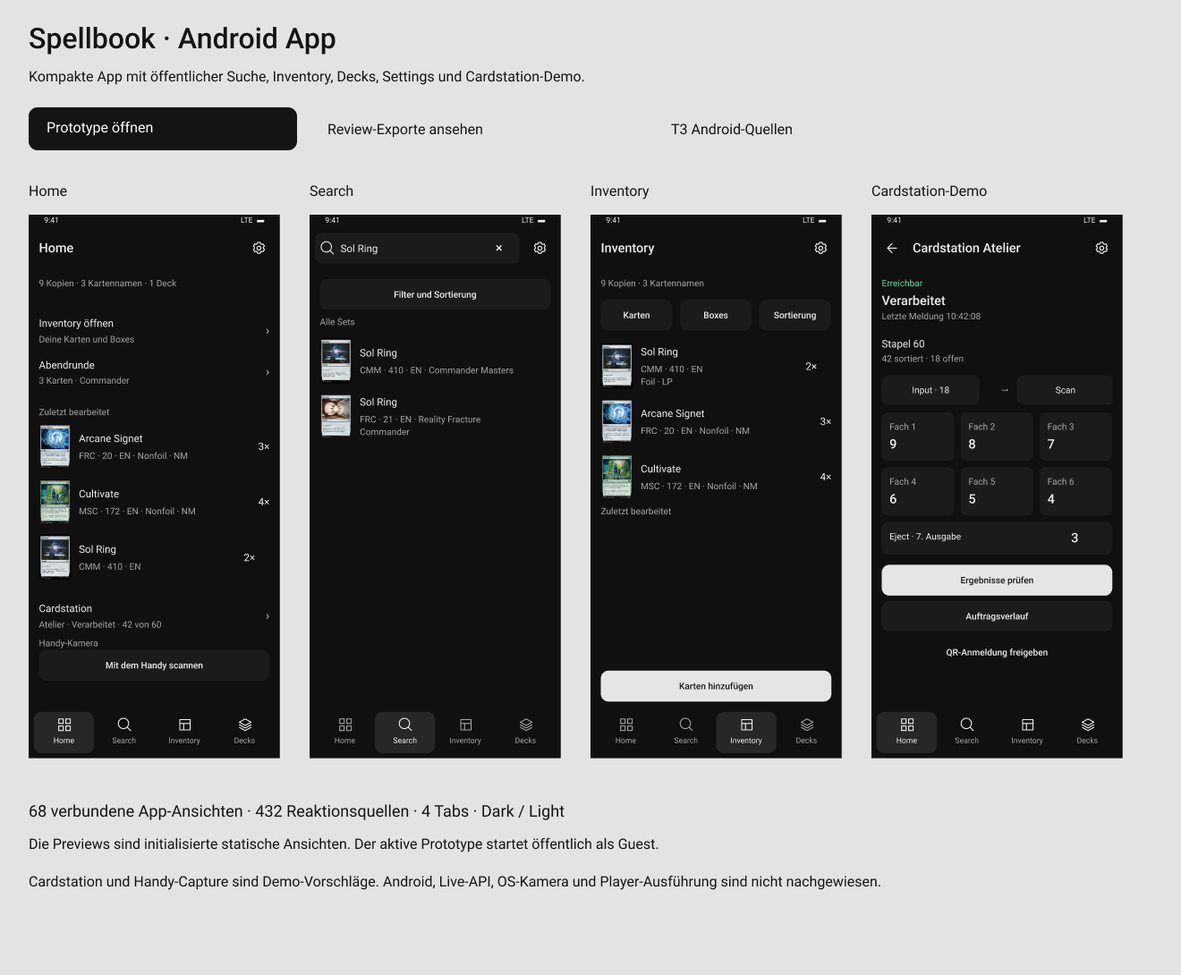
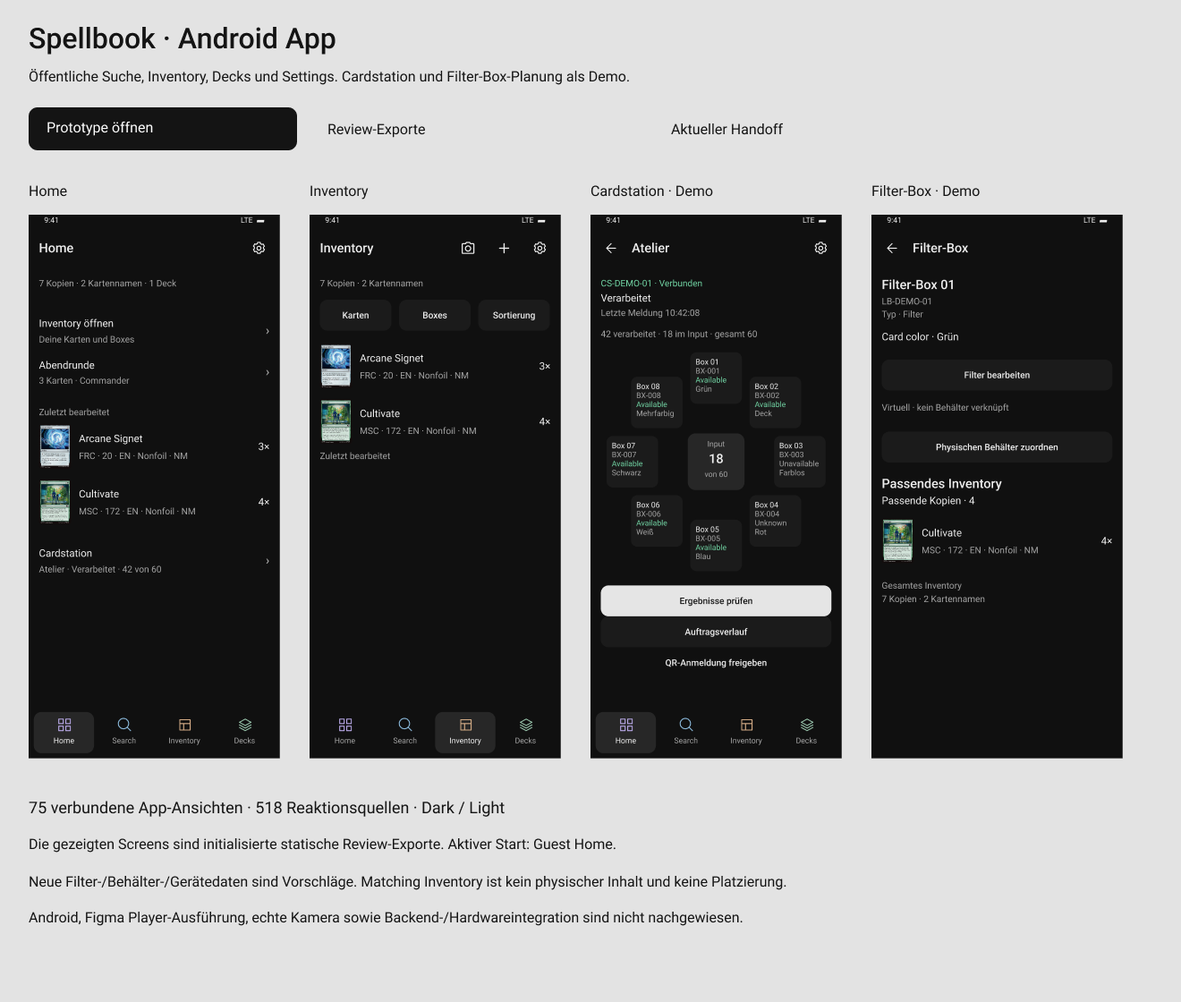
docs: refine Android inventory and circular Cardstation prototype

diff --git a/docs/integrations/card-robot.md b/docs/integrations/card-robot.md
@@ -1,10 +1,10 @@
 # Card scanner and sorter
 
 - Status: Proposed integration
-- Last Reviewed: 2026-10-17
+- Last Reviewed: 2026-10-19
 - Source of Truth: product requirements, scan API code, maintainer scope brief and supplied hardware concept
-- Update Triggers: implemented QR API versus unimplemented machine integration, project responsibilities, integration planning, capture and recognition APIs, physical inventory schema, device protocol, construction choices, prototype results, local scanner recognition and device-login direction, client feature parity, browser scanning and phone computation-core variants
-- Related Docs: [Product specification](../product/specification.md), [Domain model](../../GLOSSARY.md), [Mobile and scan](../architecture/mobile-and-scan.md), [API routes](../product/routing-and-games.md), [Local authentication](../operations/local-auth.md), [Sorter integration Wayfinder map](https://github.com/KyleDerZweite/spellbook/issues/194), [ADR-0023](../decisions/0023-local-recognition-in-scanner-clients.md)
+- Update Triggers: circular eight-box app prototype, proposed Inventory filters and physical-box links, implemented QR API versus unimplemented machine integration, project responsibilities, integration planning, capture and recognition APIs, physical inventory schema, device protocol, construction choices, prototype results, local scanner recognition and device-login direction, client feature parity, browser scanning and phone computation-core variants
+- Related Docs: [Product specification](../product/specification.md), [Domain model](../../GLOSSARY.md), [Android design handoff](../product/mobile-app-exploration.md), [Mobile and scan](../architecture/mobile-and-scan.md), [API routes](../product/routing-and-games.md), [Local authentication](../operations/local-auth.md), [Sorter integration Wayfinder map](https://github.com/KyleDerZweite/spellbook/issues/194), [ADR-0023](../decisions/0023-local-recognition-in-scanner-clients.md)
 
 The proposed device accepts a stack of MTG cards, separates one card at a time, captures an image, and sorts cards into output trays. Spellbook supplies the review interface, inventory, decklist, and selected sorting rule. A Jetson may run capture and recognition; a microcontroller may operate motors and read position sensors. Construction and board selection remain undecided.
 
@@ -16,31 +16,43 @@ The maintainer's 2026-10-07 concept extends the existing website, Dashboard, Inv
 
 This effort prepares backend and client contracts, records the concept and plans an exploratory simulator. Hardware construction, machine control, CAD and optimization belong to a separate project, with eventual integration into this service. The maintainer has started local testing and 3D prototyping separately. No measurements or design revisions from that work have been incorporated into this software contract. [ADR-0023](../decisions/0023-local-recognition-in-scanner-clients.md) records local recognition as the direction; exact client responsibilities need another review. The backend manages authorized account data and can prepare public references; it does not infer a presented user's card from its images.
 
-The eventual destination remains a buildable Spec with a simulator-based integration plan. Immediate work is documentation and experiments that show Input, Scan, transport, six boxes and Eject alongside a rough component list. The [Sorter integration Wayfinder map](https://github.com/KyleDerZweite/spellbook/issues/194) indexes the decisions. A completed Spec, implemented simulator and real hardware evidence do not yet exist.
+The eventual destination remains a buildable Spec with a simulator-based integration plan. Current app design work shows eight boxes around a central input stack. The earlier straight-path concept below remains background for the hardware investigation. The [Sorter integration Wayfinder map](https://github.com/KyleDerZweite/spellbook/issues/194) indexes the decisions. A completed Spec, implemented simulator and real hardware evidence do not yet exist.
 
 The [scanner platform evaluation](./scanner-platform-evaluation.md) researches client/runtime and host/controller alternatives, including OSS maintenance, self-hosting and reproduction. It proposes experiments without selecting construction or implementation contracts.
 
 The maintainer proposed new-intake, re-sorting and possibly physical deck-assembly modes but kept their semantics and the duplicate-counting strategy open. Arbitrary input stacks without known source boxes must be supported. A known source box can help a workflow; it is not a prerequisite. A capture identifier correlates a presentation and its processing, not a permanent physical-copy identity or proof that the card is newly owned.
 
-## Physical concept
+## Current app geometry and Box proposal
+
+On 2026-10-19, the maintainer specified a circular Cardstation view with eight box positions around the central input stack. This replaces the six-box-plus-Eject diagram in the Android prototype. It does not establish a revised mechanical design. Eject's location and routing role in this geometry remain open; no ninth output or reserved eighth position is selected.
+
+The app shows a device name, stable device ID, connection/activity state and observation time. Each recognized box shows its identity and a coarse Filter. Last reported device configuration stays distinguishable from an edited draft. An unavailable or stale observation does not independently prove absence or capacity.
+
+Existing Inventory Boxes are manual, overlapping groups of whole Inventory entries. A proposed Filter-Box would derive a matching Inventory view from a fixed criterion, initially card colour or a selected Deck. Card colour is distinct from Commander colour identity. A Deck match does not reserve copies or assemble that Deck. The current Inventory query has neither colour nor Deck predicates; this is a prototype proposal, not an implemented filtering service.
+
+Keep three identities separate: the logical Inventory Box, an optional stable reference to a removable physical box, and the current device position. A logical Box without a physical link is virtual. Matching Inventory is not observed physical content. Previewing a rule or linking a container does not change owned quantities, establish placement or activate a device rule. Overlapping views must not inflate Inventory totals.
+
+The prototype explores filter preview/confirmation/cancellation and physical link/unlink. Automatic membership, overlap priority, rule activation/versioning, exact versus alternate Deck matching, physical quantity allocation and intake duplicate handling still need reviewed contracts. [The Android handoff](../product/mobile-app-exploration.md) owns the screens and simulated flows.
+
+## Earlier straight-path physical concept
 
 Version 0 presents one card at a time. A weight presses the input stack downward and a motorized roller extracts its bottom card through a narrow opening. Separation reliability and any additional separator remain engineering questions. The card slides down a scanning ramp before an upper conveyor grips it. The conveyor is intended to run continuously; pressure, guidance, timing and arrival detection remain unproven construction choices.
 
 Three positions along the straight path each contain a flap and a left/right rocker. An opened flap releases the card downward to its rocker, producing six removable box destinations. With all flaps closed, the card continues to a fixed end-of-line Eject. Exact geometry and actuation are undecided. The available Jetson Orin Nano Super development kit and HD Logitech USB camera are test equipment, not proof that a chosen control or recognition pipeline meets the movement deadline. Direct Jetson actuation versus a separate microcontroller remains open.
 
-Eject is a regular seventh output. It handles unmatched or uncertain cards, absent/unavailable destinations, intentional output and proposed deck assembly. Logical uncertainty should route a card there rather than stop the whole run, provided its physical position is known and the machine can perform that routing. Jams, double feeds and unknown position still require safe device handling; a straight path alone does not prove a safe outcome in those cases.
+In that earlier concept, Eject is a regular seventh output. It handles unmatched or uncertain cards, absent/unavailable destinations, intentional output and proposed deck assembly. Logical uncertainty should route a card there rather than stop the whole run, provided its physical position is known and the machine can perform that routing. Jams, double feeds and unknown position still require safe device handling; a straight path alone does not prove a safe outcome in those cases.
 
 ## Box identity and availability
 
-Each removable box has a durable identity independent of its current left/right row position and a configurable rule. Candidate filters include colour, colour identity, set, rarity, card type and membership in a selected decklist. Overlapping filters, priority, unknown attributes and rule changes during a run require explicit semantics.
+Each removable box has a durable identity independent of its current device position and a configurable rule. Candidate filters include colour, colour identity, set, rarity, card type and membership in a selected decklist. Overlapping filters, priority, unknown attributes and rule changes during a run require explicit semantics.
 
 The concept puts a QR marker on the rear inner wall, viewed at an angle. One camera or reader per position is an idea, not a selected part. QR may carry a filter or reference a versioned configuration. An ID/config-reference design permits a stored rule to change without reprinting the marker, but offline evaluation requires that configuration on the device. QR payload, optional signatures and configuration activation remain open.
 
-The intended availability rule is deliberate: a visible, recognized QR makes the box available; when cards hide it, further matching cards go to Eject. The signal establishes unavailability, not its cause. Occlusion due to capacity, a missing box and a failed read must not be presented as independently verified observations. Whether additional presence/capacity sensing is necessary remains a hardware decision. A box change before a queued card arrives requires correlation with the observed outcome.
+The proposed availability rule uses a visible, recognized QR as evidence that the box is available. In the earlier straight-path concept, cards hiding the QR cause further matching cards to go to Eject; fallback routing for the circular geometry remains open. An unavailable QR does not establish its cause. Occlusion due to capacity, a missing box and a failed read must not be presented as independently verified observations. Whether additional presence/capacity sensing is necessary remains a hardware decision. A box change before a queued card arrives requires correlation with the observed outcome.
 
 ## Local fast and slow recognition
 
-Installed box rules determine the attributes needed for a local fast decision. When those attributes are reliably available, the device chooses a box or Eject before the routing deadline. Five monocolour destinations plus colourless make six boxes; this does not settle whether their rules use card colour or Commander colour identity. [Magic rules 105 and 903.4](https://media.wizards.com/2026/downloads/MagicCompRules%2020260925.txt) distinguish both from frame colour and include rules-text and back-face contributions to colour identity. Set or deck-membership rules may require stronger identification. No confidence thresholds or measured classifier latency are selected.
+Installed box rules determine the attributes needed for a local fast decision before the routing deadline. The earlier straight-path concept chose a box or Eject and used five monocolour destinations plus colourless as a six-box example. This does not select the new eight-box mapping or settle whether rules use card colour or Commander colour identity. [Magic rules 105 and 903.4](https://media.wizards.com/2026/downloads/MagicCompRules%2020260925.txt) distinguish both from frame colour and include rules-text and back-face contributions to colour identity. Set or deck-membership rules may require stronger identification. No confidence thresholds or measured classifier latency are selected.
 
 Captured frames also feed a slower local queue for exact printing, language, finish evidence and optional Condition estimation. Recognition candidates and estimates remain distinguishable from confirmed data. The [scan architecture](../architecture/mobile-and-scan.md#proposed-recognition-pipeline) owns candidate methods and evaluation. No model, OCR package, local index or cross-platform runtime is selected. Multiple frames and specialized crops are evaluation ideas, not proven improvements.
 
@@ -60,15 +72,15 @@ The current research direction gives the Jetson Orin Nano Super responsibility f
 
 The proposed meaning of a "stateless" backend is that a service process does not own motor timing or depend on its memory to resume machine work. Account Inventory, accepted-event evidence and review state still require durable storage. Machine-process state and durable account state must have separate owners in the integration contract.
 
-For proposed deck assembly, the user chooses a Deck and may empty relevant boxes into the input. Matching required cards go to Eject as the assembly output; remaining cards follow available sorting rules. The machine cannot retrieve from arbitrary storage. A new pass must not add already owned cards again, and actual allocations still depend on the unresolved physical-location model and confirmed outcomes.
+For proposed deck assembly, the user chooses a Deck and may empty relevant boxes into the input. The earlier straight-path concept sent matching required cards to Eject as the assembly output, with remaining cards following available sorting rules. The new geometry's assembly output remains open. The machine cannot retrieve from arbitrary storage. A new pass must not add already owned cards again, and actual allocations still depend on the unresolved physical-location model and confirmed outcomes.
 
 ## Exploratory simulator
 
-The desired concept surface shows Input, Scan, transport, six removable boxes and Eject. It can expose active rules, QR availability, local fast/slow results, retained captures, queue depth and backend sync. Vary local recognition delay, uncertainty, a later contradictory result and a network interruption without turning an open physical-identity rule into an assumed Inventory effect. Compare Jetson-hosted processing with a phone computation-core variant, including loss of the phone connection separately from backend interruption.
+The desired concept surface follows the current eight-box app geometry and can expose active rules, QR availability, local fast/slow results, retained captures, queue depth and backend sync. Vary local recognition delay, uncertainty, a later contradictory result and a network interruption without turning an open physical-identity rule into an assumed Inventory effect. Earlier phone computation-core comparisons remain background research; the current direction gives the Jetson local processing responsibility.
 
 The former server-inference and waiting-for-server variants are withdrawn after the maintainer's correction. Simulate local scheduling and deferred synchronization instead. This surface is an exploratory model before CAD and hardware, not a measured motion model or a completed integration acceptance suite. The rough component inventory below distinguishes known equipment from conceptual requirements.
 
-### Rough component inventory
+### Earlier straight-path component inventory
 
 This is a concept checklist, not a selected bill of materials. Counts describe the supplied mechanism; they do not select parts or prove a workable design.
 
@@ -129,7 +141,7 @@ The device-to-microcontroller transport is undecided. Whichever transport is cho
 
 ## State, inventory, and recovery
 
-Physical routing and digital interpretation progress separately. A presented card can be captured, receive a fast target, move and arrive while exact recognition, review or synchronization remains pending. Logical uncertainty uses regular Eject when physical routing remains possible. A jam, double feed, lost position or uncertain placement requires device handling and reconciliation. These are conceptual lifecycles, not selected protocol enums or new values for the current Scan-session status column.
+Physical routing and digital interpretation progress separately. A presented card can be captured, receive a fast target, move and arrive while exact recognition, review or synchronization remains pending. The earlier straight-path concept sent logical uncertainty to regular Eject when physical routing remained possible; the circular geometry needs its own fallback decision. A jam, double feed, lost position or uncertain placement requires device handling and reconciliation. These are conceptual lifecycles, not selected protocol enums or new values for the current Scan-session status column.
 
 The digital lifecycle retains local captures and recognition evidence, then applies the review and authorized Inventory effect selected for that handling intent. Physical arrival does not authorize a new owned quantity, and a recognition result does not establish arrival. The duplicate-intake strategy and final mode semantics remain open for simulator and hardware experiments.
 

diff --git a/docs/product/mobile-app-exploration.md b/docs/product/mobile-app-exploration.md
@@ -3,8 +3,8 @@
 - Status: Connected Android prototype prepared; maintainer visual acceptance and native implementation pending
 - Last Reviewed: 2026-10-19
 - Source of Truth: maintainer's selected Android structure and Figma-first sequence, inspected first-party app images and versioned mobile source, linked Figma files and shared API contracts
-- Update Triggers: prototype journey review, app navigation or typography, Cardstation/capture contracts, framework selection, API parity, native session lifecycle and cache policy
-- Related Docs: [UI direction](./ui-design-direction.md), [Routes](./routing-and-games.md), [Mobile and Scan](../architecture/mobile-and-scan.md), [Auth](../architecture/auth.md), [Client evaluation](../integrations/scanner-platform-evaluation.md), [ADR-0023](../decisions/0023-local-recognition-in-scanner-clients.md), [Product index](./README.md)
+- Update Triggers: prototype journey review, colored app navigation and compact Inventory actions, eight-box Cardstation and proposed Filter-Box/physical links, Cardstation/capture contracts, framework selection, API parity, native session lifecycle and cache policy
+- Related Docs: [UI direction](./ui-design-direction.md), [Routes](./routing-and-games.md), [Mobile and Scan](../architecture/mobile-and-scan.md), [Auth](../architecture/auth.md), [Cardstation proposal](../integrations/card-robot.md), [Client evaluation](../integrations/scanner-platform-evaluation.md), [ADR-0023](../decisions/0023-local-recognition-in-scanner-clients.md), [Product index](./README.md)
 
 The maintainer selected a separate Android application against the shared backend. On 2026-10-19, the maintainer requested a complete clickable Figma prototype before native implementation in a separate application directory. The earlier mobile scaffold and isolated T3 comparisons did not establish the required overall experience. This handoff owns the replacement app structure. Framework selection remains open.
 
@@ -17,7 +17,7 @@ The maintainer selected a separate Android application against the shared backen
 
 The [Android prototype](https://www.figma.com/proto/aKZ8f01JvXu68PAOIeevbw/Spellbook?page-id=61%3A178&node-id=63-128&starting-point-node-id=63%3A128&scaling=scale-down&content-scaling=fixed) starts at guest Home. For the contextual Auth journey, find Sol Ring, choose a Printing and prepare an Inventory Add. Login or Registration returns to the unsaved draft; Save remains explicit.
 
-![Initialized Android Home, Search, Inventory and Cardstation review previews exported from Figma.](./assets/mobile-app-exploration.png)
+![Initialized Android Home, Inventory, circular Cardstation and Filter-Box review previews exported from Figma.](./assets/mobile-app-exploration.png)
 
 These are initialized static review previews. The linked prototype contains the connected frames and state bindings. Cardstation and capture use demo data.
 
@@ -26,6 +26,8 @@ These are initialized static review previews. The linked prototype contains the 
 Home, Search, Inventory and Decks are the four main destinations. Root views use compact toolbars and a directly reachable Settings gear. Search puts its field in the toolbar. Large Spellbook wordmarks, filled avatar buttons and website chrome do not belong in this app. Details have Back, an object title and contextual actions. Focused tasks have explicit finish/cancel controls and omit the tab bar. Settings returns to its originating context.
 
 Home shows compact collection data, recent objects and a Cardstation entry. Settings contains account actions, appearance, QR authorization, Cardstation and About. The mobile design uses Android system typography, restrained neutral surfaces, consistent controls and card artwork within card content. This supersedes the earlier mobile font/avatar treatment. Website fonts and layout remain their own accepted design.
+
+The four tab icons reuse the website's geometry and distinct Home, Search, Inventory and Deck colors in both themes. Inventory has compact Camera, Plus and Settings actions with 48dp targets. Plus opens the existing Add flow; phone capture belongs in Inventory and returns there. Home has no capture shortcut or large Add-cards action.
 
 ## Connected journeys
 
@@ -42,7 +44,9 @@ Meaningful loading, empty, failed-read and unconfirmed-save examples preserve in
 
 ## Cardstation boundary
 
-Home and Settings open the same Cardstation area. Device registry, connection/activity status, jobs and result data are design proposals. A schematic can show Input, Scan, six output trays and Eject as the ordinary seventh output. Processing, stale data and review states must not imply new Inventory ownership. No motor Start/Stop controls are selected.
+Home and Settings open the same Cardstation area. The selected circular view has eight tappable box positions around a central input stack. It shows device name/ID, connection/activity, observation time and each recognized box's coarse Filter and availability. Details distinguish last reported device configuration from a draft. Stale or failed observations remain explicit. Device registry, jobs and result data are proposals; processing never implies new Inventory ownership. No motor Start/Stop controls are selected. Eject's location and routing in this new geometry remain open.
+
+The existing manual Inventory Box flow remains. Separate Filter-Box examples explore card-colour or selected-Deck matching, preview/confirm/cancel, and an optional physical-box ID link. Logical Box ID, physical container ID and device position stay distinct; a Box may remain virtual. Overlapping matches do not add owned copies. Matching Inventory does not prove physical content, and a new filter does not silently activate on the device. [The Cardstation proposal](../integrations/card-robot.md#current-app-geometry-and-box-proposal) owns this extension and its unresolved matching, allocation and activation policies. No automatic grouping service or new API is implemented.
 
 The existing QR contract authorizes an ordinary account session. Success says Anmeldung freigegeben. It does not enroll a device or implement monitoring/synchronization. Sample data and missing integration contracts are annotated outside phone screens. Local recognition and Jetson-owned execution follow [ADR-0023](../decisions/0023-local-recognition-in-scanner-clients.md). The website's paused Scan presentation does not prohibit this commissioned Android design simulation.
 

diff --git a/docs/architecture/mobile-and-scan.md b/docs/architecture/mobile-and-scan.md
@@ -14,6 +14,8 @@ On 2026-10-19, the maintainer rejected retaining PWA as the planning default for
 
 The maintainer subsequently selected a complete clickable Android Figma prototype before a separate native implementation. The app uses compact toolbars, direct Settings and Home/Settings Cardstation entrypoints. Online-first operation, bounded read/image caches and account-scoped local drafts are the initial direction. Catalog generation/revision and HTTP no-store policies remain authoritative. No offline mutation queue or automatic resubmission is selected. Device registry/status/jobs and capture views in this prototype are identified simulations, not new implemented API contracts. The paused website Scan presentation remains unchanged.
 
+The [Cardstation proposal](../integrations/card-robot.md#current-app-geometry-and-box-proposal) now distinguishes logical Inventory Boxes, optional physical container references and eight circular device positions. Filter-derived Box previews and physical link/unlink are design simulations only. They do not extend the implemented manual Box/query contract, establish physical placement or activate device rules.
+
 The phone app should offer the website's product functions, including Dashboard, Catalog, Inventory and Deck Builder, plus app-specific capabilities. The maintainer's 2026-10-15 clarification prioritizes Android and names two additions: scan a Cardstation QR to approve account login and synchronization, and scan individual cards using the phone camera and local recognition. Further app ideas remain unspecified. Equivalent user actions can use different layouts and input methods; the accepted 2026-10-16 delivery selects the shared SvelteKit PWA for installation and QR authorization. The current external API does not yet prove complete website feature parity.
 
 The app should have a distinct mobile layout and navigation. The shared API must support both common product functions and app extensions, including Cardstation authorization/sync and phone recognition results, even when the ordinary website does not expose those workflows. The integrated QR API supplies ordinary browser/device account sessions through the [Auth contract](./auth.md#pwa-and-qr-sign-in-implementation-contract). Recognition results, machine jobs, replay and synchronization still need separate reviewed contracts.

diff --git a/docs/product/ui-design-direction.md b/docs/product/ui-design-direction.md
@@ -16,6 +16,8 @@ On 2026-10-19, Kyle rejected the PWA-first research recommendation and requested
 
 On 2026-10-19, Kyle selected a coherent Android app structure. Home, Search, Inventory and Decks remain the four main destinations. Use compact root toolbars with a direct Settings gear, small object titles, contextual actions and explicit task completion. Remove large app wordmarks and filled user-avatar controls. Home and Settings expose the same Cardstation area. Android system typography is the current mobile proposal; website typography remains unchanged. [The design handoff](./mobile-app-exploration.md) owns the complete clickable journeys, simulated Cardstation/capture boundaries and online-first implementation direction. Finish Figma before native implementation; framework selection remains open. The separate Cardstation reference file contains only the public Landing page.
 
+The Android refinement retains the website's distinct colored tab icons. Inventory uses compact Camera, Plus and Settings actions instead of a large Add-cards button; phone capture is reached from Inventory. Cardstation uses eight boxes around the central stack, with device name/ID, connection state and coarse box filters. Filter-Box previews and optional physical references are prototype proposals; [the handoff](./mobile-app-exploration.md#cardstation-boundary) records their boundaries.
+
 On 2026-10-19, Kyle selected only Discord's QR arrangement as a reference. Keep Spellbook's existing account layout, logo, spacing, equal desktop columns and separator. Center the QR code above its heading and concise status. Omit explanatory sign-in prose; retain recovery and copy-link controls. Narrow layouts stack the password form before QR sign-in. Keep the existing password and explicit approval flows. Registration and approval retain their narrow account layout.
 
 A later UI polishing pass should review almost every interface except the public landing page. This broader pass is deferred and does not replace the existing component, action, browsing or dialog contracts below. The [Wayfinder map](https://github.com/KyleDerZweite/spellbook/issues/194) owns its scope question and follow-up decisions.
